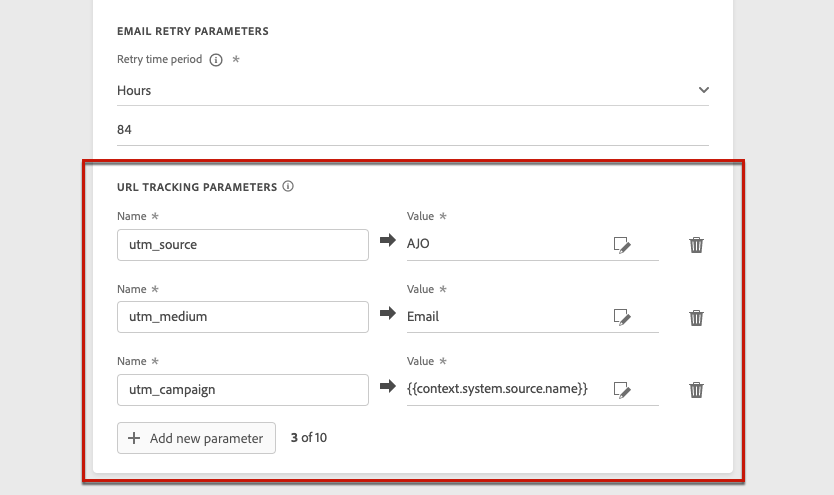
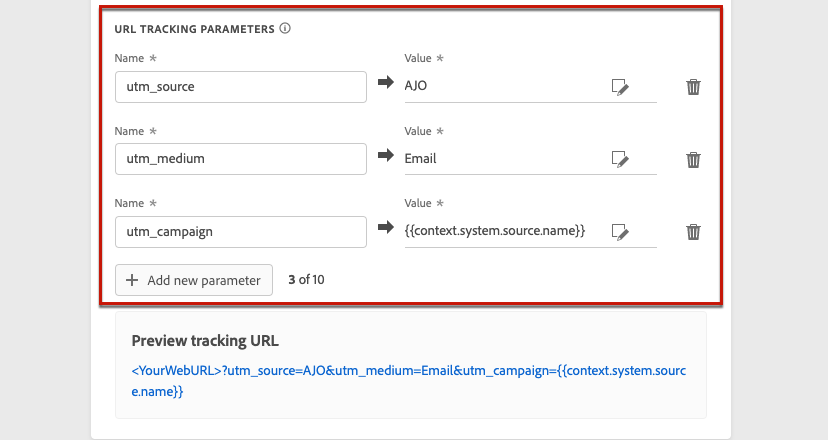
Url tracking june (#829)
* URL tracking updates (draft)

* Update email-settings.md

contextual help

* Preview URL tracking updates

+ commented Expression Editor URL tracking updates

diff --git a/help/using/configuration/email-settings.md b/help/using/configuration/email-settings.md
@@ -157,8 +157,13 @@ Learn more on retries in [this section](retries.md).
 
 >[!CONTEXTUALHELP]
 >id="ajo_admin_preset_utm"
->title="URL tracking parameters"
->abstract="Use this section to automatically append tracking parameters to the campaign URLs present in your email content."
+>title="Define URL tracking parameters"
+>abstract="Use this section to automatically append tracking parameters to the URLs present in your email content. This feature is optional."
+
+>[!CONTEXTUALHELP]
+>id="ajo_admin_preset_url_preview"
+>title="Preview URL tracking parameters"
+>abstract="Review how tracking parameters will be appended to the URLs present in your email content."
 
 You can use **[!UICONTROL URL Tracking Parameters]** to measure the effectiveness of your marketing efforts across channels. This feature is optional.
 
@@ -169,7 +174,6 @@ The parameters defined in this section will be appended to the end of the URLs i
 Three URL tracking parameters are auto-populated as an example when you create a message preset. You can edit these and add up to 10 tracking parameters using the **[!UICONTROL Add new parameter]** button.
 
 To configure a URL tracking parameter, you can directly enter the desired values in the **[!UICONTROL Name]** and **[!UICONTROL Value]** fields, or choose from a list of predefined values by navigating to the following objects:
-
 * Journey attributes: **Source id**, **Source name**, **Source version id**
 * Action attributes: **Action id**, **Action name**
 * Offer decisioning attributes: **Offer id**, **Offer name**
@@ -179,6 +183,14 @@ To configure a URL tracking parameter, you can directly enter the desired values
 >[!CAUTION]
 >
 >Do not select a folder: make sure to browse to the necessary folder and select a profile attribute to use as a tracking parameter value.
+
+<!--or edit it using the Expression Editor. Learn more on [personalization](../../personalization/personalize.md#use-expression-editor). Select the contextual attribute of your choice.
+
+You can drag and drop the parameters to reorder them.-->
+
+You can dynamically preview the resulting tracking URL. Each time you add, edit or remove a parameter, the preview is automatically updated.
+
+![](assets/preset-url-tracking-preview.png)
 
 Below are examples of Adobe Analytics and Google Analytics compatible URLs.
 
